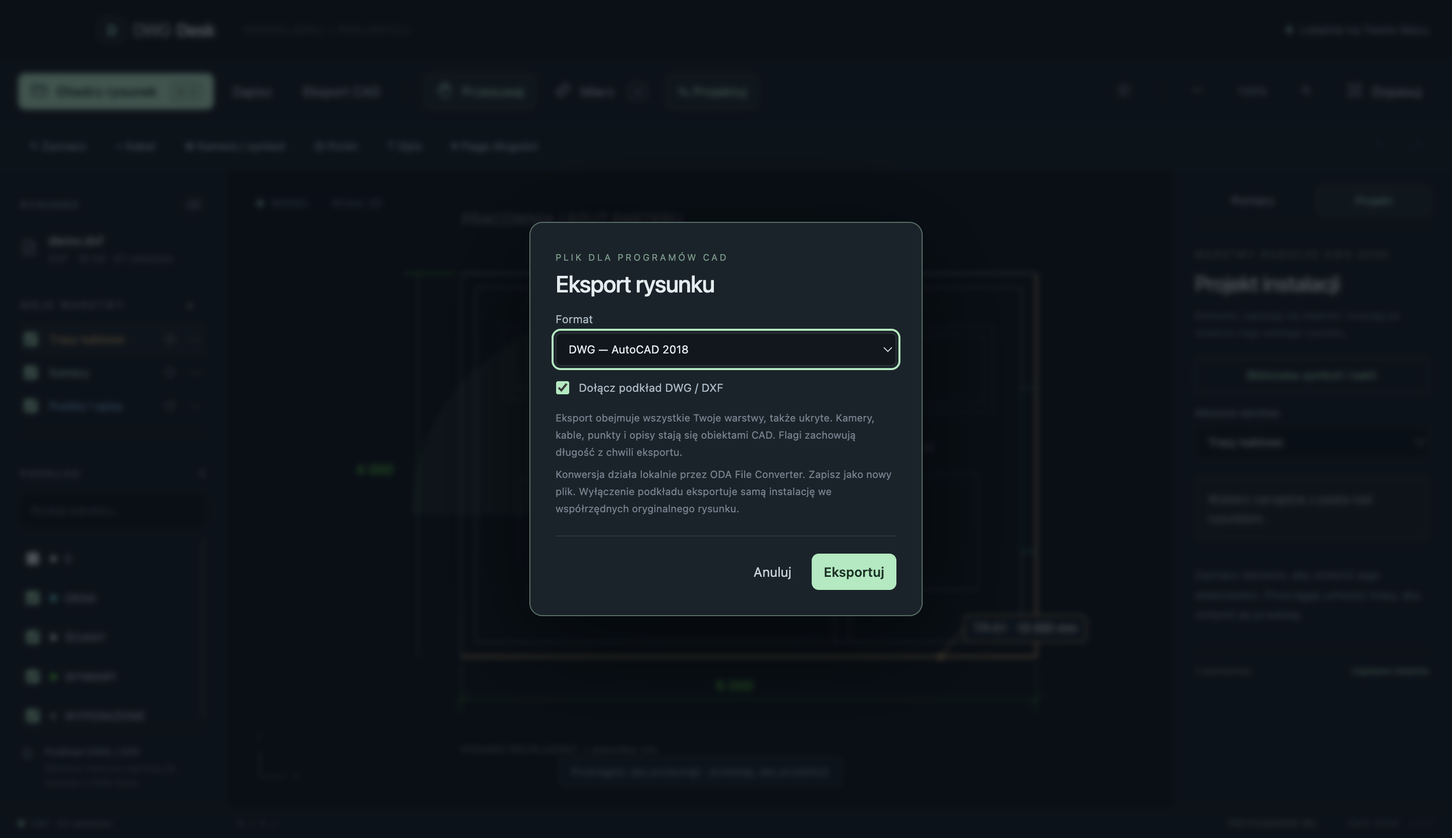
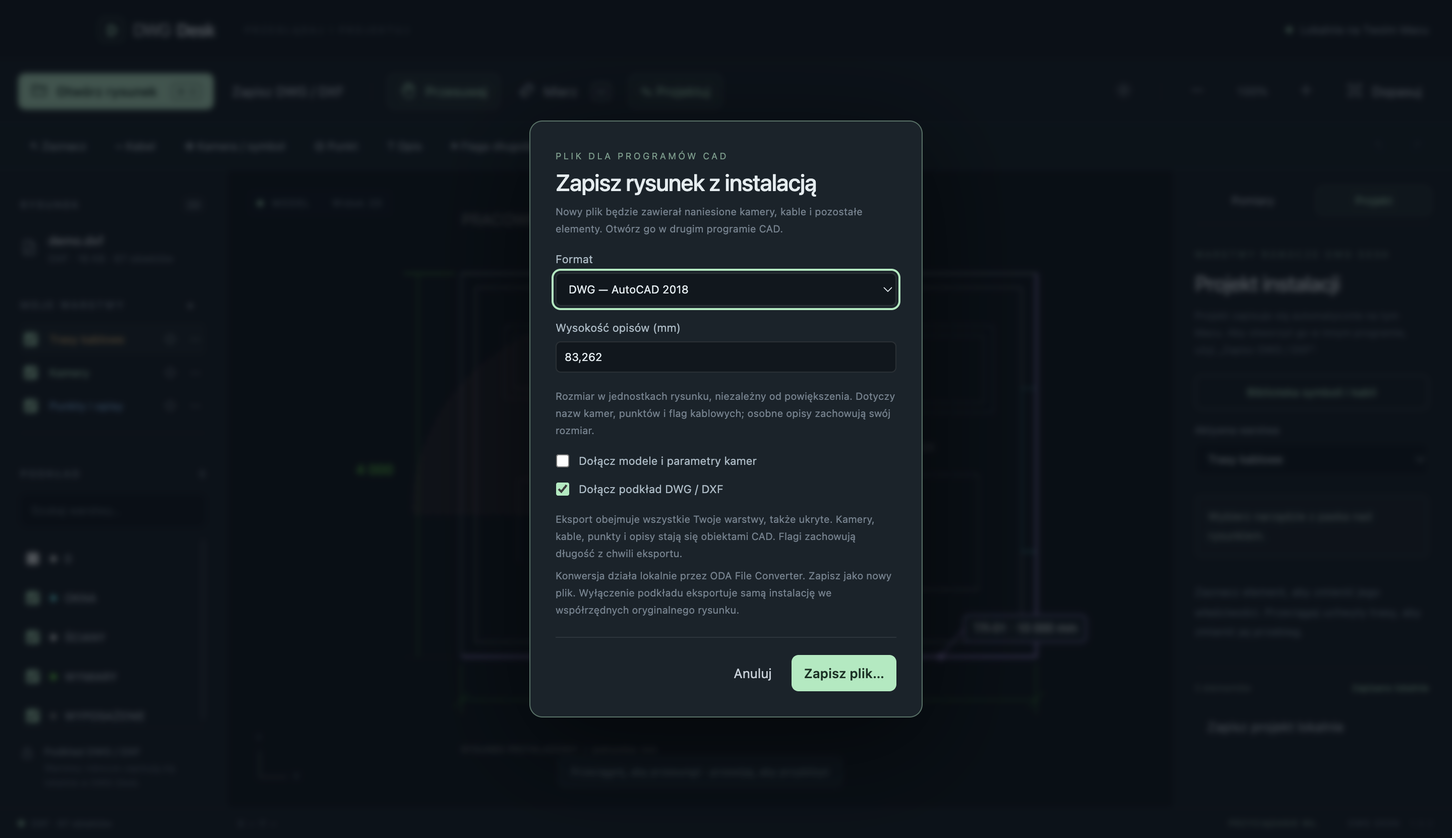
fix: save CAD files with Cmd+S and keep exported label heights independent of zoom

Changed region(s): [[0.3438, 0.3069, 0.6562, 0.8285], [0.375, 0.1841, 0.5938, 0.2762]]

diff --git a/index.html b/index.html
@@ -2,7 +2,7 @@
 <html lang="pl"><head><meta charset="UTF-8"><meta name="viewport" content="width=device-width,initial-scale=1"><meta http-equiv="Content-Security-Policy" content="default-src 'self'; script-src 'self' 'wasm-unsafe-eval'; style-src 'self' 'unsafe-inline'; img-src 'self' data: blob:; connect-src 'self'; worker-src 'self' blob:; object-src 'none'; base-uri 'none'; form-action 'none'"><title>DWG Desk</title></head>
 <body>
   <header class="titlebar"><div class="brand"><span class="brand-mark">D</span> DWG <strong>Desk</strong></div><span class="title-caption">PRZEGLĄDAJ I PROJEKTUJ</span><span class="privacy"><i></i> Lokalnie na Twoim Macu</span></header>
-  <nav class="toolbar" aria-label="Narzędzia"><button id="open" class="primary"><span data-icon="folder"></span> Otwórz rysunek <kbd>⌘ O</kbd></button><button id="save-project" title="Zapisz warstwy robocze (⌘S)" disabled>Zapisz</button><button id="export-cad" title="Eksport rysunku z warstwami do DWG / DXF" disabled>Eksport CAD</button><span class="divider"></span><button id="pan" class="active" title="Przesuwanie (V)" aria-pressed="true"><span data-icon="hand"></span> Przesuwaj</button><button id="measure" title="Pomiar odległości (M)" disabled aria-pressed="false"><span data-icon="ruler"></span> Mierz <kbd>M</kbd></button><button id="design" disabled title="Projektuj instalację">✎ Projektuj</button><span class="toolbar-spacer"></span><button id="theme" title="Zmień tło rysunku"><span data-icon="sun"></span></button><span class="divider"></span><button id="zoom-out" title="Oddal" disabled><span data-icon="minus"></span></button><output id="zoom">100%</output><button id="zoom-in" title="Przybliż" disabled><span data-icon="plus"></span></button><button id="fit" title="Dopasuj rysunek (F)" disabled><span data-icon="fit"></span> Dopasuj</button></nav>
+  <nav class="toolbar" aria-label="Narzędzia"><button id="open" class="primary"><span data-icon="folder"></span> Otwórz rysunek <kbd>⌘ O</kbd></button><button id="export-cad" title="Zapisz nowy plik z naniesionymi elementami dla innych programów CAD (⌘S)" disabled>Zapisz DWG / DXF</button><span class="divider"></span><button id="pan" class="active" title="Przesuwanie (V)" aria-pressed="true"><span data-icon="hand"></span> Przesuwaj</button><button id="measure" title="Pomiar odległości (M)" disabled aria-pressed="false"><span data-icon="ruler"></span> Mierz <kbd>M</kbd></button><button id="design" disabled title="Projektuj instalację">✎ Projektuj</button><span class="toolbar-spacer"></span><button id="theme" title="Zmień tło rysunku"><span data-icon="sun"></span></button><span class="divider"></span><button id="zoom-out" title="Oddal" disabled><span data-icon="minus"></span></button><output id="zoom">100%</output><button id="zoom-in" title="Przybliż" disabled><span data-icon="plus"></span></button><button id="fit" title="Dopasuj rysunek (F)" disabled><span data-icon="fit"></span> Dopasuj</button></nav>
   <nav id="design-toolbar" hidden aria-label="Narzędzia projektowe"><button data-design-tool="select">↖ Zaznacz</button><button data-design-tool="cable">⌁ Kabel</button><button data-design-tool="symbol">◈ Kamera / symbol</button><button data-design-tool="point">⊕ Punkt</button><button data-design-tool="text">T Opis</button><button data-design-tool="flag">⚑ Flaga długości</button><span class="toolbar-spacer"></span><button id="design-undo" title="Cofnij (⌘Z)" disabled>↶</button><button id="design-redo" title="Ponów (⇧⌘Z)" disabled>↷</button></nav>
   <main>
     <aside class="sidebar left"><div class="section-heading">RYSUNEK <span class="tiny-badge">2D</span></div><div class="file-card"><span data-icon="file"></span><div><strong id="filename">Brak otwartego pliku</strong><small id="filemeta">DWG / DXF</small></div></div><section id="design-layers-section" hidden><div class="section-heading">MOJE WARSTWY <button id="new-layer" title="Dodaj warstwę roboczą" aria-label="Dodaj warstwę roboczą">+</button></div><div id="design-layer-list"></div></section><div class="section-heading layers-heading">PODKŁAD <span id="layer-count">0</span></div><input id="layer-search" type="search" placeholder="Szukaj warstwy…" aria-label="Szukaj warstwy"><div id="layers"><p class="muted empty-layers">Warstwy pojawią się<br>po otwarciu rysunku.</p></div><div class="sidebar-bottom"><span data-icon="lock"></span><div>Podkład DWG / DXF<small>Warstwy robocze zapisują się lokalnie w DWG Desk.</small></div></div></aside>
@@ -10,7 +10,7 @@
     <aside class="sidebar right"><div class="panel-tabs"><button data-panel="measure" class="active">Pomiary</button><button data-panel="design">Projekt</button></div><div id="measurement-panel"><div class="section-heading">POMIARY <span data-icon="ruler"></span></div><h2>Każdy wymiar<br>pod ręką.</h2><p class="muted measure-copy">Lewy przycisk dodaje kolejne punkty. Prawy kończy pomiar i zapisuje sumę.</p><button id="start-measure" class="outline" disabled><span data-icon="plus"></span> Nowy pomiar</button><label class="switch-line"><input id="snap" type="checkbox" checked> Przyciągaj do geometrii <span class="key">S</span></label><p class="microcopy">Końce, środki i wierzchołki.<br>Przytrzymaj ⌥, aby wybrać dowolny punkt.</p><details class="unit-panel" id="units-panel"><summary><span>Jednostki: <b id="unit-summary">auto</b><small id="unit-summary-source">Automatyczne rozpoznawanie</small></span><span>⌄</span></summary><div class="unit-options"><label for="drawing-unit">Jednostka rysunku</label><select id="drawing-unit"><option value="auto">Automatycznie</option><option value="unit">Jednostki rysunku</option><option value="mm">Milimetry (mm)</option><option value="cm">Centymetry (cm)</option><option value="dm">Decymetry (dm)</option><option value="m">Metry (m)</option><option value="km">Kilometry (km)</option><option value="in">Cale</option><option value="ft">Stopy</option><option value="yd">Jardy (yd)</option><option value="mi">Mile</option></select><small id="unit-note">Odczytamy ją z pliku, jeśli jest zapisana.</small><label for="display-unit">Wyświetl wynik w</label><select id="display-unit" disabled><option value="mm">Milimetrach (mm)</option><option value="cm">Centymetrach (cm)</option><option value="dm">Decymetrach (dm)</option><option value="m">Metrach (m)</option><option value="km">Kilometrach (km)</option><option value="in">Calach</option><option value="ft">Stopach</option><option value="yd">Jardach (yd)</option><option value="mi">Milach</option></select></div></details><div id="path-controls" hidden><button id="undo-point" title="Cofnij ostatni punkt (Backspace)">↶ Cofnij</button><button id="finish-measure" class="outline" disabled>Zakończ ↵</button></div><div id="total-panel" hidden><span>SUMA POMIARÓW</span><strong id="grand-total">0</strong><small id="total-detail"></small><small id="preview-total" hidden></small></div><div class="section-heading history-heading">WYNIKI <span id="measurement-count">0</span></div><div id="measurements"><p class="muted empty-measurements">Pierwszy pomiar pojawi się tutaj.</p></div><div class="measurement-actions"><button id="export" disabled>Eksport CSV</button><button id="clear" disabled title="Usuń wszystkie pomiary"><span data-icon="trash"></span></button></div><p class="microcopy bottom-note">Odległości w płaszczyźnie XY.<br>Pomiary są przechowywane do otwarcia kolejnego pliku.</p></div><div id="design-panel" hidden></div></aside>
   </main>
   <div id="notice" hidden role="status"><span id="notice-text"></span><button id="notice-close" aria-label="Zamknij komunikat">×</button></div>
-  <footer><span><i class="status-dot"></i><span id="status">Gotowy do pracy</span></span><span id="coordinates">X — &nbsp; Y —</span><span id="snap-status">PRZYCIĄGANIE WŁ.</span><span class="footer-right">DWG DESK <b>1.3.1</b></span></footer>
+  <footer><span><i class="status-dot"></i><span id="status">Gotowy do pracy</span></span><span id="coordinates">X — &nbsp; Y —</span><span id="snap-status">PRZYCIĄGANIE WŁ.</span><span class="footer-right">DWG DESK <b>1.3.2</b></span></footer>
   <input id="file-input" type="file" accept=".dwg,.dxf" hidden>
   <script type="module" src="/src/app.js"></script>
 </body></html>

diff --git a/src/designer.js b/src/designer.js
@@ -18,7 +18,7 @@ export class Designer {
   get dirty(){return this.revision!==this.savedRevision;}
   get hasDraft(){return this.draft.length>0||Boolean(this.drag);}
   installPanel(){
-    $('design-panel').innerHTML=`<div class="design-panel-heading"><span class="eyebrow">WARSTWY ROBOCZE DWG DESK</span><h2>Projekt instalacji</h2><p class="microcopy">Elementy zapisują się lokalnie i wracają po otwarciu tego samego rysunku.</p></div>
+    $('design-panel').innerHTML=`<div class="design-panel-heading"><span class="eyebrow">WARSTWY ROBOCZE DWG DESK</span><h2>Projekt instalacji</h2><p class="microcopy">Projekt zapisuje się automatycznie na tym Macu. Aby otworzyć go w innym programie, użyj „Zapisz DWG / DXF”.</p></div>
     <button id="open-library" class="outline">Biblioteka symboli i kabli</button>
     <label class="field-label">Aktywna warstwa<select id="active-layer"></select></label>
     <div id="placement-settings"><label class="field-label">Typ kabla<select id="cable-preset"></select></label><label class="field-label">Symbol<select id="symbol-preset"></select></label></div>
@@ -34,7 +34,7 @@ export class Designer {
       <div id="position-properties"><div class="field-pair"><label class="field-label">X<input id="object-x" type="number" step="any"></label><label class="field-label">Y<input id="object-y" type="number" step="any"></label></div><div class="field-pair"><label class="field-label">Obrót (°)<input id="object-rotation" type="number" min="-360" max="360" step="1"></label><label class="field-label">Rozmiar <span class="design-unit"></span><input id="object-size" type="number" min="0.000001" step="any"></label></div></div>
       <div id="camera-properties"><div class="field-pair"><label class="field-label">Kąt widzenia (°)<input id="object-fov" type="number" min="1" max="360" step="1"></label><label class="field-label">Zasięg <span class="design-unit"></span><input id="object-range" type="number" min="0" step="any"></label></div><label class="switch-line"><input id="object-show-fov" type="checkbox"> Pokaż sektor obserwacji</label><p class="microcopy">Sektor pokazuje kierunek, kąt i zasięg w rzucie 2D. Nie uwzględnia przeszkód ani wysokości montażu.</p></div>
       <div class="property-actions"><button id="duplicate-object" type="button">Duplikuj</button><button id="save-object-library" type="button">Do biblioteki</button><button id="delete-object" type="button" class="danger">Usuń</button></div>
-    </form><div class="design-summary"><span id="design-object-count">0 elementów</span><span id="design-save-status">Brak rysunku</span></div>`;
+    </form><div class="design-summary"><span id="design-object-count">0 elementów</span><span id="design-save-status">Brak rysunku</span></div><button id="save-project" title="Zapisz projekt tylko w DWG Desk; plik CAD zapiszesz przyciskiem na górnym pasku" disabled>Zapisz projekt lokalnie</button>`;
   }
   bindUI(){
     document.querySelectorAll('[data-close]').forEach(b=>b.onclick=()=>$(b.dataset.close).close());
@@ -93,7 +93,7 @@ export class Designer {
     this.key=key;this.history=new DesignHistory(saved||newDesign());if(!saved)this.state.settings=copy(settings);this.revision=this.savedRevision=0;this.activeLayer=this.state.layers[0].id;this.selected=null;this.draft=[];this.flagTarget=null;this.render();return saved?.settings;
   }
   reset(){this.loadSequence++;clearTimeout(this.saveTimer);this.cancelDrag();this.key=null;this.history=new DesignHistory();this.selected=null;this.draft=[];this.revision=this.savedRevision=0;this.render();}
-  settingsChanged(settings){if(this.key)this.mutate(s=>s.settings=copy(settings));}
+  settingsChanged(settings){if(this.key)this.mutate(s=>s.settings={...s.settings,...copy(settings)});}
   setMode(mode){
     if(this.mode==='cable'&&mode!=='cable')this.finishCable();this.cancelDrag();this.action=null;this.mode=mode;this.draft=[];this.flagTarget=null;this.hover=null;this.api.canvas().style.cursor='';
     if(['cables','cameras','points'].includes(this.activeLayer)){const target={cable:'cables',symbol:'cameras',point:'points',text:'points'}[mode];if(target&&this.layer(target))this.activeLayer=target;this.renderLayers();}
@@ -121,7 +121,7 @@ export class Designer {
     }
     $('design-layers-section').hidden=!this.key;
   }
-  renderSaveStatus(error=false){$('design-save-status').textContent=error?'Błąd zapisu — kliknij Zapisz':!this.key?'Brak rysunku':this.dirty?'Zapisywanie…':'Zapisano lokalnie';$('save-project').disabled=!this.key;$('save-project').classList.toggle('unsaved',this.dirty);}
+  renderSaveStatus(error=false){$('design-save-status').textContent=error?'Błąd zapisu lokalnego':!this.key?'Brak rysunku':this.dirty?'Zapisywanie…':'Zapisano lokalnie';$('save-project').disabled=!this.key;$('save-project').classList.toggle('unsaved',this.dirty);}
   render(){this.renderLayers();this.renderProperties();this.updateHint();this.renderSaveStatus();$('design-undo').disabled=!this.history.undoStack.length;$('design-redo').disabled=!this.history.redoStack.length;$('design-object-count').textContent=`${this.state.objects.length} elementów`;}
   renderProperties(){
     const o=this.object();$('design-panel').classList.toggle('has-selection',Boolean(o));$('object-properties').hidden=!o;$('selection-empty').hidden=Boolean(o);

diff --git a/src/app.js b/src/app.js
@@ -6,6 +6,7 @@ import { MeasurementSession } from './measurement-session.js';
 import { bindPanGesture } from './pan-gesture.js';
 import { dxfForViewer } from './dxf-encoding.js';
 import { Designer } from './designer.js';
+import { suggestCadTextHeight } from '../shared/cad-export.js';
 import './style.css';
 
 const $ = id => document.getElementById(id);
@@ -273,18 +274,22 @@ $('pan').onclick = () => setMode('pan');
 $('measure').onclick = $('start-measure').onclick = () => setMode('measure');
 $('design').onclick=()=>setMode('select');
 document.querySelectorAll('[data-panel]').forEach(b=>b.onclick=()=>{if(source)setMode(b.dataset.panel==='design'?'select':'measure');});
-$('save-project').onclick=async()=>{try{document.activeElement?.blur();await designer.flush(true);status('Warstwy robocze zapisane lokalnie');}catch(error){notice(`Nie zapisano warstw: ${error.message}`);}};
-$('export-cad').onclick=()=>{if(source&&!exportBusy){$('cad-export-error').textContent='';$('cad-export-dialog').showModal();}};
+$('save-project').onclick=async()=>{try{document.activeElement?.blur();await designer.flush(true);status('Projekt zapisany w DWG Desk · do innych programów: Zapisz DWG / DXF');}catch(error){notice(`Nie zapisano warstw: ${error.message}`);}};
+$('export-cad').onclick=()=>{if(source&&!busy&&!exportBusy){document.activeElement?.blur();$('cad-export-format').value=/\.dwg$/i.test(fileName)?'dwg':'dxf';$('cad-export-base').checked=true;$('cad-export-text-height').value=designer.state.settings.cadTextHeight??suggestCadTextHeight(designer.state,drawingUnit);$('cad-export-text-unit').textContent=drawingUnit==='unit'?'j. rys.':drawingUnit;$('cad-export-details').checked=designer.state.settings.cadCameraDetails===true;$('cad-export-error').textContent='';$('cad-export-dialog').showModal();}};
 $('cad-export-form').onsubmit=async event=>{
   event.preventDefault();if(exportBusy||!sourceBytes)return;exportBusy=true;
   const submit=$('cad-export-submit');submit.disabled=true;$('cad-export-cancel').disabled=true;submit.textContent='Konwertuję lokalnie…';$('cad-export-error').textContent='';
   try{
-    document.activeElement?.blur();await designer.flush(true);
+    document.activeElement?.blur();
+    const textHeight=Number($('cad-export-text-height').value);
+    if(!Number.isFinite(textHeight)||textHeight<1e-8||textHeight>1e9)throw new Error('Podaj dodatnią wysokość opisów w jednostkach rysunku.');
+    const includeCameraDetails=$('cad-export-details').checked;
+    designer.settingsChanged({cadTextHeight:textHeight,cadCameraDetails:includeCameraDetails});await designer.flush(true);
     const doc=viewer.getDocument();
-    const result=await window.desktop.exportCad({format:$('cad-export-format').value,includeBase:$('cad-export-base').checked,name:fileName,bytes:sourceBytes,design:structuredClone(designer.state),unit:drawingUnit,displayUnit:drawingUnit==='unit'?'unit':displayUnit,textHeight:12/viewer.renderer.getViewState().scale,sceneTransform:doc.metadata?.sceneTransformApplied?doc.savedView?.sceneTransform:null});
-    if(result){$('cad-export-dialog').close();status(`Zapisano ${result.fileName} · ${result.objects} elementów projektu`);if(result.warningCount)notice(`Plik CAD zapisano z uwagami konwertera (${result.warningCount}).\n`+result.warnings.slice(0,5).join('\n'));else notice('');}
+    const result=await window.desktop.exportCad({format:$('cad-export-format').value,includeBase:$('cad-export-base').checked,name:fileName,bytes:sourceBytes,design:structuredClone(designer.state),unit:drawingUnit,displayUnit:drawingUnit==='unit'?'unit':displayUnit,textHeight,includeCameraDetails,sceneTransform:doc.metadata?.sceneTransformApplied?doc.savedView?.sceneTransform:null});
+    if(result){$('cad-export-dialog').close();status(`Zapisano ${result.fileName} z ${result.objects} elementami · otwórz ten plik w drugim programie`);if(result.warningCount)notice(`Plik CAD zapisano z uwagami konwertera (${result.warningCount}).\n`+result.warnings.slice(0,5).join('\n'));else notice('');}
   }catch(error){$('cad-export-error').textContent=error.message;}
-  finally{exportBusy=false;submit.disabled=false;$('cad-export-cancel').disabled=false;submit.textContent='Eksportuj';}
+  finally{exportBusy=false;submit.disabled=false;$('cad-export-cancel').disabled=false;submit.textContent='Zapisz plik…';}
 };
 $('cad-export-dialog').addEventListener('cancel',event=>{if(exportBusy)event.preventDefault();});
 $('open').onclick = $('empty-open').onclick = chooseFile;

diff --git a/shared/cad-export.js b/shared/cad-export.js
@@ -1,6 +1,12 @@
 import {validateDesign,pathLength,pointOnPath,objectColor} from './design-model.js';
 const unitCodes={unit:0,in:1,ft:2,mi:3,mm:4,cm:5,m:6,km:7,yd:10,dm:14};
 const meters={mm:.001,cm:.01,dm:.1,m:1,km:1000,in:.0254,ft:.3048,yd:.9144,mi:1609.344};
+// Text is measured in drawing units, never in pixels or current viewport zoom.
+export function suggestCadTextHeight(design,unit='unit'){
+  const sizes=design.objects.filter(o=>['symbol','point'].includes(o.kind)&&Number.isFinite(o.size)&&o.size>0).map(o=>o.size).sort((a,b)=>a-b);
+  const size=sizes.length?sizes[Math.floor(sizes.length/2)]*.5:(meters[unit] ? 0.25/meters[unit] : 1);
+  return Math.max(1e-8,Math.min(1e9,Number(size.toPrecision(6))));
+}
 export function parseDxf(text){
   if(typeof text!=='string'||text.length>256*1024*1024||text.startsWith('AutoCAD Binary DXF'))throw new Error('Eksport wymaga tekstowego pliku DXF.');
   const lines=text.replace(/^\uFEFF/,'').split(/\r\n|\n|\r/);if(lines.at(-1)==='')lines.pop();
@@ -25,7 +31,7 @@ function aci(color){
   for(let h=0;h<24;h++)for(let j=0;j<10;j++){const v=[255,165,127,76,38][Math.floor(j/2)],s=j%2?.5:1,c=v*s,x=c*(1-Math.abs((h/4)%2-1)),m=v-c;const a=h/4;const channels=a<1?[c,x,0]:a<2?[x,c,0]:a<3?[0,c,x]:a<4?[0,x,c]:a<5?[x,0,c]:[c,0,x];test(10+h*10+j,channels.map(n=>Math.round(n+m)));}return best;
 }
 export function mergeDesignDxf(base,design,options={}){
-  design=validateDesign(design);let pairs=parseDxf(base);const toWorld=worldTransform(options.sceneTransform),height=options.textHeight??1;
+  design=validateDesign(design);let pairs=parseDxf(base);const toWorld=worldTransform(options.sceneTransform),height=options.textHeight??suggestCadTextHeight(design,options.unit);
   if(!Number.isFinite(height)||height<1e-8||height>1e9)throw new Error('Nieprawidłowy rozmiar opisów.');
   const unit=options.unit||'unit',display=options.displayUnit||unit;if(!(unit in unitCodes)||!(display in unitCodes))throw new Error('Nieprawidłowa jednostka eksportu.');
   let handle=1n;for(const [c,v]of pairs)if((c===5||c===105)&&/^[0-9a-f]+$/i.test(v.trim())){const n=BigInt('0x'+v.trim());if(n>=handle)handle=n+1n;}
@@ -51,7 +57,7 @@ export function mergeDesignDxf(base,design,options={}){
       const a=o.rotation*Math.PI/180,transform=p=>({x:o.position.x+o.size*(Math.cos(a)*p.x-Math.sin(a)*p.y),y:o.position.y+o.size*(Math.sin(a)*p.x+Math.cos(a)*p.y)});
       for(const s of o.symbol.strokes){if(s.type==='circle')circle(transform(s.center),s.radius*o.size);else poly(s.points.map(transform),s.closed);}
       text({x:o.position.x,y:o.position.y+o.size+height},o.name);
-      const info=[o.description,o.symbol.kind==='camera'?`${o.fov}° · ${length(o.range)}`:''].filter(Boolean).join(' · ');if(info)mtext({x:o.position.x,y:o.position.y+o.size+2.5*height},info,height*.8);
+      const info=[o.description,o.symbol.kind==='camera'?`${o.fov}° · ${length(o.range)}`:''].filter(Boolean).join(' · ');if(info&&options.includeCameraDetails===true)mtext({x:o.position.x,y:o.position.y+o.size+2.5*height},info,height*.8);
       if(o.symbol.kind==='camera'&&o.showFov&&o.range){const sector=[o.position];for(let i=0;i<=64;i++){const a=(o.rotation-o.fov/2+o.fov*i/64)*Math.PI/180;sector.push({x:o.position.x+Math.cos(a)*o.range,y:o.position.y+Math.sin(a)*o.range});}poly(sector,true);}
     }else if(o.kind==='point'){circle(o.position,o.size);line({x:o.position.x-o.size*1.5,y:o.position.y},{x:o.position.x+o.size*1.5,y:o.position.y});line({x:o.position.x,y:o.position.y-o.size*1.5},{x:o.position.x,y:o.position.y+o.size*1.5});text({x:o.position.x+o.size*2,y:o.position.y+height},o.name);}
     else if(o.kind==='text')text(o.position,o.name,o.size,o.rotation);

diff --git a/src/design-ui.html b/src/design-ui.html
@@ -21,11 +21,14 @@
 </dialog>
 <dialog id="cable-type-dialog" class="design-dialog small-dialog"><form id="cable-type-form"><div class="dialog-heading"><h2>Typ kabla</h2><button type="button" data-close="cable-type-dialog" aria-label="Zamknij">×</button></div><label>Nazwa<input id="cable-type-name" required maxlength="100" placeholder="np. U/UTP kat. 6A"></label><label>Opis<textarea id="cable-type-description" rows="3" maxlength="1000"></textarea></label><label>Kolor trasy<input id="cable-type-color" type="color" value="#ffbf69"></label><div class="dialog-actions"><button type="button" data-close="cable-type-dialog">Anuluj</button><button class="primary" type="submit">Zapisz w bibliotece</button></div></form></dialog>
 <dialog id="cad-export-dialog" class="design-dialog small-dialog"><form id="cad-export-form">
-  <span class="eyebrow">PLIK DLA PROGRAMÓW CAD</span><h2>Eksport rysunku</h2>
+  <span class="eyebrow">PLIK DLA PROGRAMÓW CAD</span><h2>Zapisz rysunek z instalacją</h2><p class="microcopy">Nowy plik będzie zawierał naniesione kamery, kable i pozostałe elementy. Otwórz go w drugim programie CAD.</p>
   <label>Format<select id="cad-export-format"><option value="dwg">DWG — AutoCAD 2018</option><option value="dxf">DXF — AutoCAD 2018</option></select></label>
+  <label>Wysokość opisów (<span id="cad-export-text-unit">j. rys.</span>)<input id="cad-export-text-height" type="number" required min="0.00000001" max="1000000000" step="any"></label>
+  <p class="microcopy">Rozmiar w jednostkach rysunku, niezależny od powiększenia. Dotyczy nazw kamer, punktów i flag kablowych; osobne opisy zachowują swój rozmiar.</p>
+  <label class="switch-line"><input id="cad-export-details" type="checkbox"> Dołącz modele i parametry kamer</label>
   <label class="switch-line"><input id="cad-export-base" type="checkbox" checked> Dołącz podkład DWG / DXF</label>
   <p class="microcopy">Eksport obejmuje wszystkie Twoje warstwy, także ukryte. Kamery, kable, punkty i opisy stają się obiektami CAD. Flagi zachowują długość z chwili eksportu.</p>
   <p class="microcopy">Konwersja działa lokalnie przez ODA File Converter. Zapisz jako nowy plik. Wyłączenie podkładu eksportuje samą instalację we współrzędnych oryginalnego rysunku.</p>
   <p id="cad-export-error" class="form-error" role="alert"></p>
-  <div class="dialog-actions"><button id="cad-export-cancel" type="button" data-close="cad-export-dialog">Anuluj</button><button id="cad-export-submit" type="submit" class="primary">Eksportuj</button></div>
+  <div class="dialog-actions"><button id="cad-export-cancel" type="button" data-close="cad-export-dialog">Anuluj</button><button id="cad-export-submit" type="submit" class="primary">Zapisz plik…</button></div>
 </form></dialog>

diff --git a/src/designer.css b/src/designer.css
@@ -2,6 +2,6 @@
 #design-panel.has-selection .design-panel-heading{display:none}#design-panel.has-selection .design-hint{margin:12px 0;padding:9px;font-size:10px;line-height:1.6}#design-panel.has-selection #object-properties{padding-top:13px}#design-panel.has-selection #open-library{margin-bottom:3px}#design-panel.has-selection .field-label{margin-top:10px}
 #viewport.drawing #viewer canvas{cursor:crosshair}
 #symbol-transform{display:grid;grid-template-columns:1fr 1.2fr;margin:12px 0 4px;gap:6px}#symbol-transform button{min-height:34px;color:#b4f0c9;background:#a5ebbd0c;border-color:#a5ebbd35}#symbol-transform button.active{background:#a5ebbd28;border-color:#a5ebbd}
-#cad-export-base{display:inline-block;width:14px;min-width:14px;margin:0;flex-shrink:0}#cad-export-dialog .switch-line{display:flex;gap:9px;align-items:center}#cad-export-dialog .microcopy{line-height:1.7}#cad-export-submit:disabled{opacity:.65}
+#cad-export-dialog input[type=checkbox]{display:inline-block;width:14px;min-width:14px;margin:0;flex-shrink:0}#cad-export-dialog .switch-line{display:flex;gap:9px;align-items:center}#cad-export-dialog .microcopy{line-height:1.7}#cad-export-submit:disabled{opacity:.65}
 
 .object-color-row{display:flex;align-items:center;gap:8px;margin-top:7px}.object-color-row input[type=color]{width:60px;height:32px;padding:3px;border:1px solid #ffffff25;background:#10171e;border-radius:5px;cursor:pointer}.object-color-row button{min-height:32px;padding:0 12px;font-size:11px}.color-palette{display:flex;gap:6px;margin-top:9px}.color-palette button{min-height:20px;width:20px;height:20px;padding:0;flex-shrink:0;border:2px solid #ffffff28;border-radius:50%;background:var(--swatch)}.color-palette button[aria-pressed=true]{outline:2px solid #e3ecef;outline-offset:2px}.object-color-control .microcopy{font-size:9px;margin:8px 0 3px}.design-dialog .symbol-color-setting input{display:inline-block;width:auto;margin:0;flex-shrink:0}.symbol-color-setting{display:flex!important;gap:8px;align-items:center}.object-color-control :disabled{opacity:.45;cursor:default}

diff --git a/shared/design-model.js b/shared/design-model.js
@@ -71,6 +71,8 @@ export function validateDesign(design){
   if(count>500000)fail();
   const units=['auto','unit','mm','cm','dm','m','km','in','ft','yd','mi'];
   if(!design.settings||!units.includes(design.settings.drawingUnit)||!units.slice(1).includes(design.settings.displayUnit))fail();
+  if(design.settings.cadTextHeight!==undefined&&(!Number.isFinite(design.settings.cadTextHeight)||design.settings.cadTextHeight<1e-8||design.settings.cadTextHeight>1e9))fail();
+  if(design.settings.cadCameraDetails!==undefined&&typeof design.settings.cadCameraDetails!=='boolean')fail();
   return copy(design);
 }
 export function translateObject(object,dx,dy){

diff --git a/docs/data-and-export.md b/docs/data-and-export.md
@@ -4,11 +4,13 @@
 
 ## Co zapisuje program
 
-Podkład DWG/DXF jest otwierany do odczytu. Kamery, kable, punkty, opisy, flagi i własne warstwy tworzą **nakładkę DWG Desk**. Program zapisuje ją automatycznie po zmianach; przycisk **Zapisz** lub Cmd+S wymusza zapis. Rozpoczęta trasa z co najmniej dwoma punktami jest kończona przy zapisie, zmianie pliku i zamykaniu aplikacji.
+Podkład DWG/DXF jest otwierany do odczytu. Kamery, kable, punkty, opisy, flagi i własne warstwy tworzą **nakładkę DWG Desk**. Program zapisuje ją automatycznie po zmianach; **Zapisz projekt lokalnie** w panelu Projekt wymusza zapis nakładki. **Zapisz DWG / DXF** oraz Cmd+S otwierają zapis nowego pliku CAD z naniesionymi elementami. Rozpoczęta trasa z co najmniej dwoma punktami jest kończona przy zapisie, zmianie pliku i zamykaniu aplikacji.
 
 Nakładka zawiera geometrię, nazwy, parametry kamer, kolory, widoczność i blokady warstw oraz ustawienia jednostek. Biblioteka symboli i typów kabli jest wspólna dla wszystkich rysunków. Pomiary i historia cofania są tymczasowe — pomiary można wcześniej wyeksportować do CSV.
 
 Projekt jest identyfikowany przez SHA-256 **zawartości podkładu**. Kopia lub zmiana nazwy identycznego pliku otworzy tę samą nakładkę. Edycja pliku w innym programie zmienia jego identyfikator; dotychczasowa nakładka nie zostanie wtedy automatycznie przypisana do zmienionego podkładu.
+
+W wersjach do 1.3.1 przycisk „Zapisz” i Cmd+S zapisywały tylko lokalną nakładkę. Od 1.3.2 Cmd+S prowadzi do zapisu DWG/DXF. Sam zapis lokalny nigdy nie dodaje elementów do oryginalnego podkładu.
 
 ## Lokalizacja danych
 
@@ -25,7 +27,7 @@ Aplikacja korzysta z katalogu `app.getPath('userData')`; testy mogą wskazać os
 
 ## Kopia zapasowa
 
-1. Kliknij **Zapisz** i zamknij aplikację.
+1. W panelu Projekt kliknij **Zapisz projekt lokalnie** i zamknij aplikację.
 2. Zachowaj kopię oryginalnych podkładów DWG/DXF.
 3. Skopiuj cały katalog `designs`, łącznie z biblioteką.
 4. Przy odtwarzaniu zamknij program i przywróć katalog do tego samego profilu. Następnie otwórz niezmieniony podkład.
@@ -39,17 +41,17 @@ Eksport obu formatów wymaga [ODA File Converter](https://www.opendesign.com/gue
 ![Okno eksportu CAD z wyborem formatu i zakresu](images/eksport-cad.png)
 
 1. Sprawdź jednostkę rysunku i zakończ edycję elementów.
-2. Wybierz **Eksport CAD**.
-3. Wybierz **DWG** lub **DXF** oraz zakres: podkład z instalacją albo sama instalacja.
-4. Wskaż nowy plik docelowy.
-5. Poczekaj na komunikat zakończenia.
+2. Wybierz **Zapisz DWG / DXF**.
+3. Wybierz **DWG** lub **DXF**. Domyślnie zaznaczone **Dołącz podkład DWG / DXF** zapisuje cały rysunek z instalacją. Wyłącz tę opcję tylko wtedy, gdy potrzebujesz samej instalacji.
+4. Sprawdź **Wysokość opisów** w jednostkach rysunku. Rozmiar nie zależy od zoomu; domyślnie wynika z wielkości symboli. Modele i parametry kamer możesz dołączyć osobnym checkboxem.
+5. Kliknij **Zapisz plik…**, wskaż nowy plik docelowy i poczekaj na komunikat zakończenia. W drugim programie otwórz nowy plik, domyślnie z końcówką `_projekt`.
 
 Wynik używa formatu **AutoCAD 2018**. Eksport zachowuje współrzędne i jednostkę modelu; nie skaluje rysunku do jednostki wyświetlania wyników. Wybranie otwartego pliku źródłowego jako celu jest blokowane.
 
 | Element | Postać w wyeksportowanym CAD |
 | --- | --- |
 | Kabel | Edytowalna polilinia. |
-| Kamera / symbol | Zwykła geometria symbolu i tekst opisu. |
+| Kamera / symbol | Geometria i nazwa; model oraz parametry opcjonalnie. |
 | Pole widzenia | Kontur sektora zgodny z kierunkiem, kątem i zasięgiem. |
 | Punkt i opis | Geometria oraz tekst. |
 | Flaga kabla | Etykieta z długością z chwili eksportu i odnośnikiem. |
@@ -58,6 +60,8 @@ Wynik używa formatu **AutoCAD 2018**. Eksport zachowuje współrzędne i jednos
 Eksportowane są także ukryte warstwy robocze, z zachowaniem ich stanu. Nazwy warstw instalacji mają prefiks `DWGDesk_`; są normalizowane do znaków ASCII, a kolizje rozwiązywane numerem. Kolory RGB poszczególnych elementów pozostają zachowane. Przy eksporcie podkładu jego stany warstw pochodzą z pliku źródłowego — chwilowe ukrycie warstwy w przeglądarce nie usuwa jej z eksportu.
 
 Program pracuje na kopiach tymczasowych. Konwerter działa lokalnie, z zablokowanym dostępem do sieci. Przed zapisaniem wyniku wykonywana jest kontrola struktury przez ponowną konwersję oraz porównanie liczby dodanych encji na warstwach; dla DWG sprawdzana jest także sygnatura pliku. To kontrola procesu eksportu, a nie gwarancja zachowania każdego nietypowego obiektu źródłowego.
+
+Wysokość opisów i wybór parametrów kamer zapisują się w lokalnym projekcie. Ustawiona wysokość dotyczy automatycznych nazw kamer i punktów oraz flag tras. Osobne obiekty **Opis** zachowują swój własny rozmiar.
 
 ## Dalsza edycja i ograniczenia
 

diff --git a/README.md b/README.md
@@ -20,13 +20,13 @@ DWG Desk pozwala otworzyć rysunek CAD, zmierzyć trasę i nanieść własne kab
 | Lokalna biblioteka | Własne symbole i typy kabli do użycia na kolejnych rysunkach. |
 | Eksport | DWG/DXF 2018 z podkładem lub sama instalacja; osobno CSV z pomiarami. |
 
-**Podkład pozostaje niezmieniony.** Dodane elementy zapisują się jako lokalna nakładka. Aby przekazać rysunek z instalacją innej osobie, użyj **Eksport CAD**.
+**Podkład pozostaje niezmieniony.** Dodane elementy zapisują się jako lokalna nakładka. Aby przekazać rysunek z instalacją innej osobie, użyj **Zapisz DWG / DXF**.
 
 ## Wymagania i instalacja
 
-Wydanie **1.3.1** przygotowano dla **macOS 13+ i Apple Silicon**. Nie przygotowano paczki dla komputerów Intel ani wydania Windows/Linux.
+Wydanie **1.3.2** przygotowano dla **macOS 13+ i Apple Silicon**. Nie przygotowano paczki dla komputerów Intel ani wydania Windows/Linux.
 
-1. Otwórz plik `DWG-Desk-1.3.1-mac-arm64.dmg` otrzymany z wydaniem.
+1. Otwórz plik `DWG-Desk-1.3.2-mac-arm64.dmg` otrzymany z wydaniem.
 2. Przeciągnij **DWG Desk** do **Aplikacji**.
 3. Uruchom program i wybierz **Otwórz rysunek** lub przeciągnij plik DWG/DXF do okna.
 
@@ -40,7 +40,7 @@ Paczka jest podpisana lokalnie ad hoc, bez notaryzacji Apple. Szczegóły instal
 2. Włącz **Mierz**. Lewy przycisk dodaje punkty, prawy przycisk lub Enter kończy pomiar.
 3. Wybierz **Projektuj** i dodaj kabel, kamerę albo punkt.
 4. Zaznacz element, aby zmienić jego właściwości i kolor. Kamerę możesz przesunąć myszą lub obrócić uchwytem kierunku.
-5. Kliknij **Zapisz**, aby wymusić zapis nakładki, lub **Eksport CAD**, aby utworzyć nowy DWG/DXF.
+5. Kliknij **Zapisz DWG / DXF** lub naciśnij **Cmd+S**, zostaw zaznaczone **Dołącz podkład DWG / DXF** i zapisz nowy plik. W innym programie CAD otwórz właśnie ten plik. Projekt DWG Desk zapisuje się lokalnie automatycznie.
 
 Możesz też wybrać **Wypróbuj na rysunku przykładowym** i sprawdzić funkcje bez własnego pliku.
 
@@ -62,7 +62,7 @@ Sektor kamery jest rzutem geometrycznym — nie uwzględnia przeszkód ani wysok
 
 ## Weryfikacja wydania
 
-Dla 1.3.1 przeszło **27 testów logiki oraz 50 scenariuszy w spakowanej aplikacji macOS**. Sprawdzono kolory, bibliotekę, zapis po restarcie, edycję kamer i tras oraz eksport z ponownym odczytem DWG/DXF. [Raport weryfikacji](docs/validation-1.3.1.json) opisuje dokładny zakres; nie jest deklaracją zgodności ze wszystkimi plikami DWG.
+Dla 1.3.2 przeszło **29 testów logiki oraz 34 kontrole spakowanej aplikacji macOS**. Sprawdzono zapis pliku przez Cmd+S, stałe wysokości opisów, ponowny odczyt DWG/DXF, zapis lokalny i edycję instalacji. [Raport 1.3.2](docs/validation-1.3.2.json) opisuje zakres. Pozostaje dostępny [raport 1.3.1](docs/validation-1.3.1.json) z wcześniejszej weryfikacji kolorów i kamer. Raporty nie są deklaracją zgodności ze wszystkimi plikami DWG.
 
 ## Licencja
 

diff --git a/docs/installation.md b/docs/installation.md
@@ -16,12 +16,12 @@ Minimalna wersja systemu nie oznacza, że wykonano testy na każdym wydaniu macO
 
 ## Instalacja z DMG
 
-1. Otwórz `DWG-Desk-1.3.1-mac-arm64.dmg`.
+1. Otwórz `DWG-Desk-1.3.2-mac-arm64.dmg`.
 2. Przeciągnij **DWG Desk** do folderu **Aplikacje**.
 3. Uruchom aplikację z folderu Aplikacje.
 4. Otwórz rysunek lub skorzystaj z przykładu dostępnego na ekranie startowym.
 
-Alternatywnie rozpakuj archiwum aplikacji `DWG-Desk-1.3.1-mac-arm64.zip` i przenieś `DWG Desk.app` do Aplikacji. Archiwum źródeł ma inną zawartość — uruchamia się je według [instrukcji dla programistów](development.md).
+Alternatywnie rozpakuj archiwum aplikacji `DWG-Desk-1.3.2-mac-arm64.zip` i przenieś `DWG Desk.app` do Aplikacji. Archiwum źródeł ma inną zawartość — uruchamia się je według [instrukcji dla programistów](development.md).
 
 Aplikacja jest podpisana ad hoc, bez certyfikatu Apple Developer ID i notaryzacji. macOS może zablokować pierwsze uruchomienie pobranej kopii. Jeśli znasz pochodzenie paczki, użyj **Ustawienia systemowe → Prywatność i ochrona → Otwórz mimo to**. Nie wyłączaj globalnie Gatekeepera.
 
@@ -35,7 +35,7 @@ Aplikacja jest podpisana ad hoc, bez certyfikatu Apple Developer ID i notaryzacj
    ~/Applications/ODAFileConverter.app
    ```
 
-3. W DWG Desk otwórz rysunek i wybierz **Eksport CAD**.
+3. W DWG Desk otwórz rysunek i wybierz **Zapisz DWG / DXF**.
 
 Testy eksportu wydania 1.3.1 wykonano z ODA File Converter **27.9.0.0**. DWG Desk wykrywa konwerter w podanych lokalizacjach i uruchamia go lokalnie z blokadą połączeń sieciowych. Nie pobiera ani nie aktualizuje go samodzielnie.
 
@@ -43,7 +43,7 @@ Konwerter ma osobną licencję. Nie jest potrzebny do otwierania rysunków, pomi
 
 ## Aktualizacja
 
-1. Kliknij **Zapisz** w DWG Desk i zamknij aplikację.
+1. Poczekaj na **Zapisano lokalnie** w panelu Projekt i zamknij aplikację. Możesz też wymusić zapis przyciskiem **Zapisz projekt lokalnie** (w wersji 1.3.1: **Zapisz**).
 2. Otwórz nowe DMG i zastąp aplikację w folderze Aplikacje.
 3. Uruchom ją i sprawdź numer wersji w prawym dolnym rogu.
 

diff --git a/docs/user-guide.md b/docs/user-guide.md
@@ -104,12 +104,18 @@ Otwórz **Biblioteka symboli i kabli**. Definicje są wspólne dla rysunków na 
 
 Zmiana wzorca dotyczy kolejnych wstawień. Już umieszczone elementy zachowują własne ustawienia.
 
+## Zapis do innego programu CAD
+
+Wybierz **Zapisz DWG / DXF** na górnym pasku lub **Cmd+S**, wybierz format i pozostaw zaznaczone dołączenie podkładu. Sprawdź **Wysokość opisów** w jednostkach rysunku — ten rozmiar nie zmienia się wraz z zoomem. Dodatkowe modele i parametry kamer są opcjonalne. Po kliknięciu **Zapisz plik…** wskaż nową nazwę. W drugim programie otwórz zapisany plik z instalacją, domyślnie z końcówką `_projekt`.
+
+Projekt z biblioteką i ustawieniami elementów zapisuje się na tym Macu automatycznie. Przycisk **Zapisz projekt lokalnie** w panelu Projekt wymusza ten lokalny zapis. Szczegóły i kopie zapasowe opisano w [instrukcji zapisu](data-and-export.md).
+
 ## Skróty
 
 | Skrót / przycisk | Działanie |
 | --- | --- |
 | Cmd+O | Otwórz rysunek. |
-| Cmd+S | Zapisz nakładkę i zakończ rozpoczętą trasę kabla. |
+| Cmd+S | Otwórz zapis DWG/DXF z naniesionymi elementami; zatwierdzenie zapisu kończy rozpoczętą trasę kabla. |
 | M / V / F | Mierz / Przesuwaj / Dopasuj. |
 | S / Option | Przełącz przyciąganie / chwilowo je wyłącz. |
 | Lewy klik | Dodaj punkt pomiaru lub kabla; w trybie Zaznacz wybierz element. |

diff --git a/docs/troubleshooting.md b/docs/troubleshooting.md
@@ -5,6 +5,8 @@
 | Objaw | Co sprawdzić |
 | --- | --- |
 | macOS blokuje pierwsze uruchomienie | Paczka jest podpisana ad hoc, bez notaryzacji. Sprawdź pochodzenie pliku i skorzystaj z procedury w [instalacji](installation.md). |
+| Dodane kamery i kable nie są widoczne w innym programie | Użyj **Zapisz DWG / DXF** (w 1.3.1: **Eksport CAD**) z dołączonym podkładem. Otwórz utworzony plik `_projekt`, a nie oryginał. **Zapisz / Cmd+S** w wersji 1.3.1 zapisywał tylko nakładkę lokalną. |
+| Opisy w wyeksportowanym pliku są ogromne lub nakładają się | Zainstaluj 1.3.2 i ponownie zapisz oryginalny projekt do CAD. Wcześniej ich wysokość zależała od zoomu. W oknie zapisu ustaw **Wysokość opisów** w jednostkach rysunku; modele i parametry kamer dołączaj tylko w razie potrzeby. |
 | Rysunek jest niewidoczny lub bardzo mały | Użyj **Dopasuj**. Sprawdź widoczność warstw. Pojedyncze obiekty daleko od modelu mogą powiększać jego zakres. |
 | Fragmentów rysunku brakuje | Sprawdź komunikat o pominiętych encjach. Program obsługuje model 2D; nie wszystkie obiekty 3D, proxy, AEC, tabele i osadzone obiekty są renderowane. |
 | Wynik pomiaru jest w „j. rys.” | Rysunek nie zawiera jednoznacznej obsługiwanej jednostki. Ustaw ją ręcznie, korzystając z dokumentacji podkładu. Sama skala wydruku nie rozstrzyga jednostki. |
